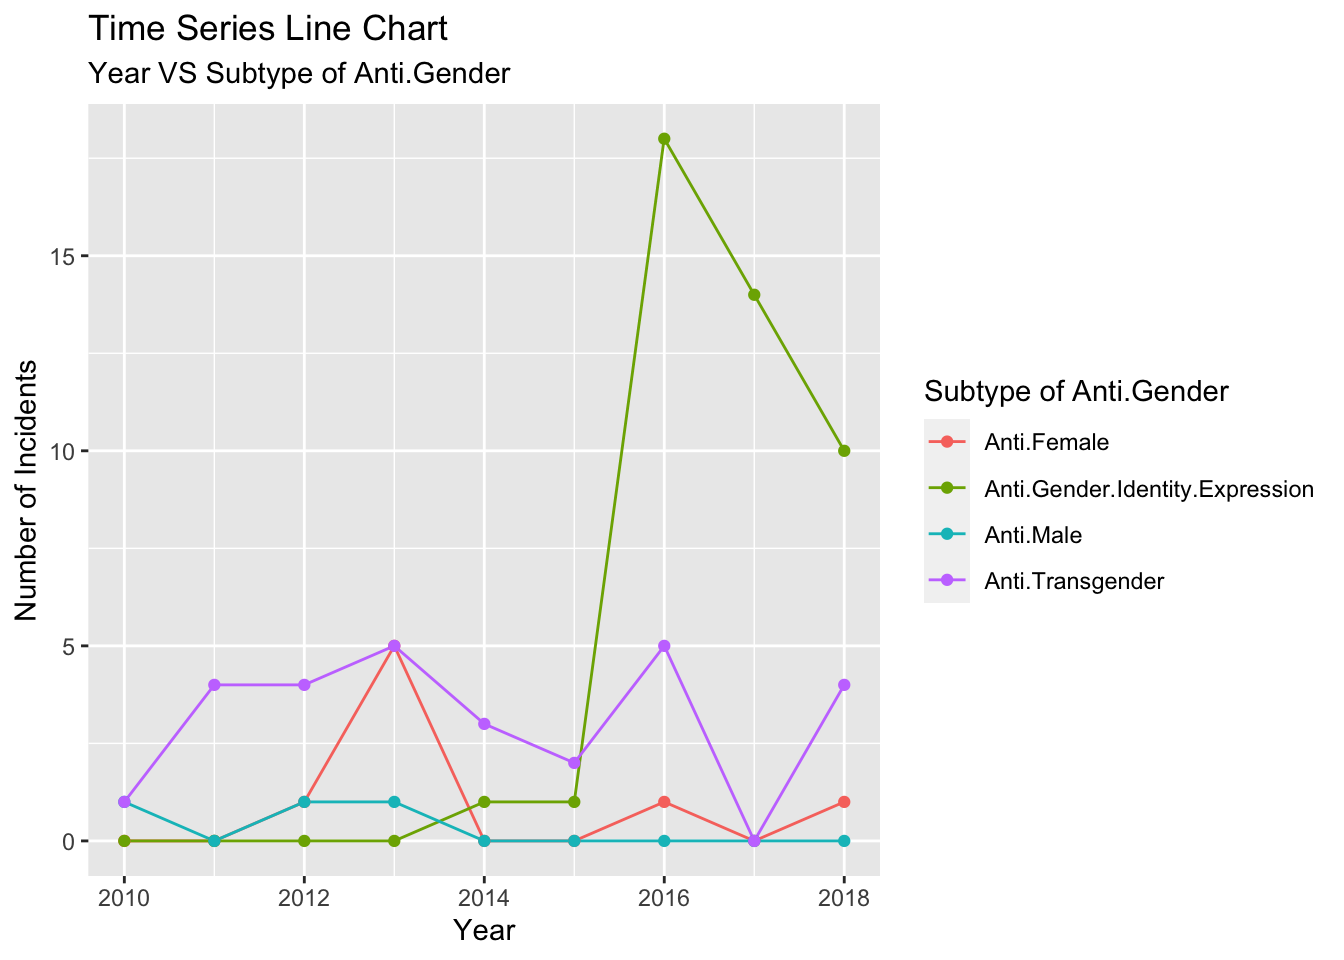
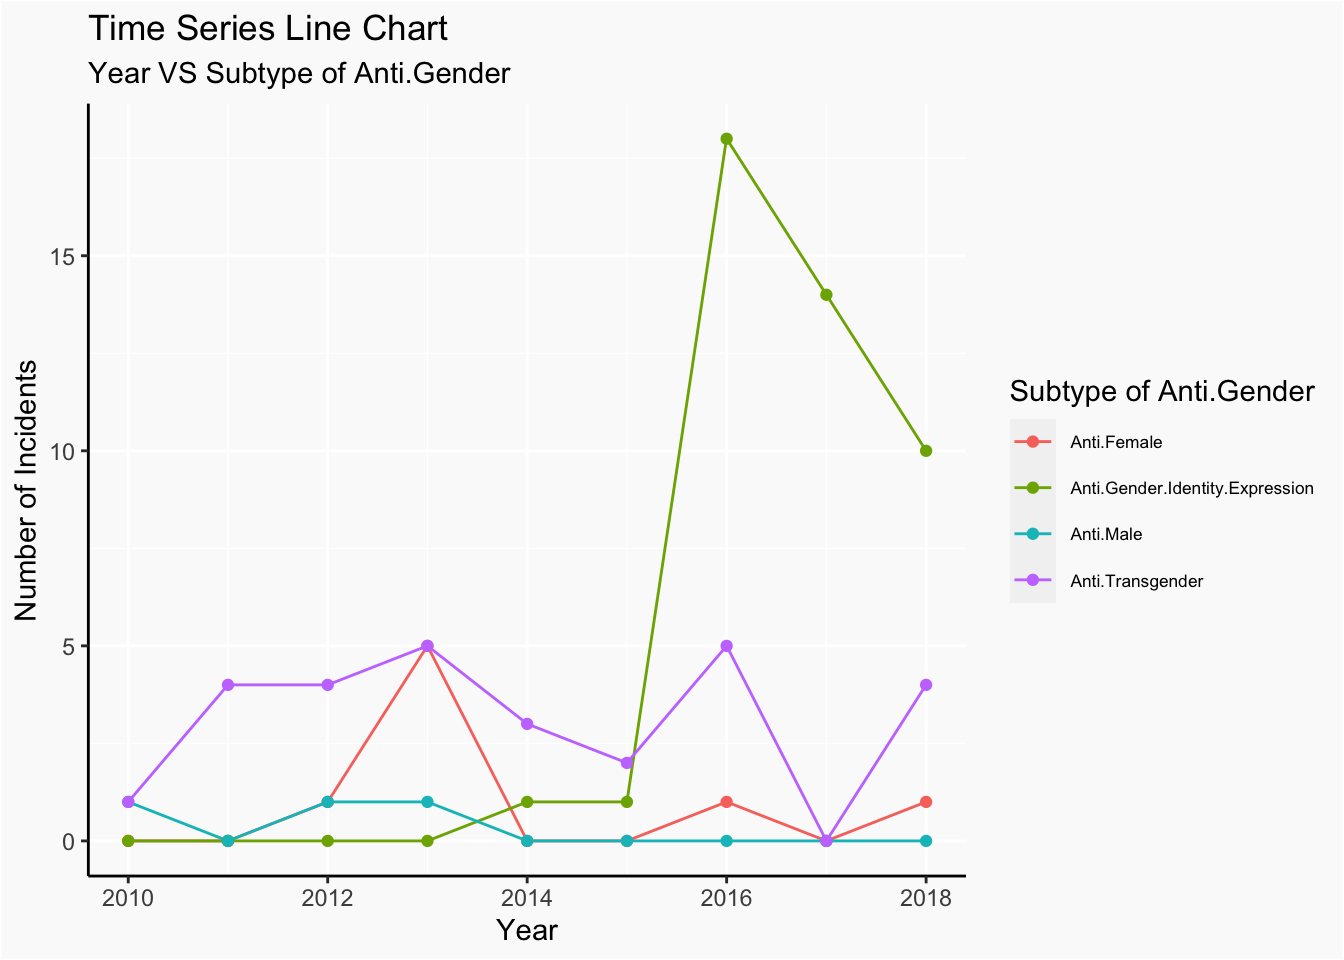
not showing the code and render again

diff --git a/docs/data-transformation.html b/docs/data-transformation.html
@@ -171,42 +171,6 @@ code span.wa { color: #60a0b0; font-weight: bold; font-style: italic; } /* Warni
 <p>We saved the original data as a csv file called ‘Hate_Crimes_by_County_and_Bias_Type_Beginning_2010.csv’.</p>
 <p>To get the tidy data, we first dropped the last three columns namely <em>Total.Incidents</em>, <em>Total.Victims</em>, <em>Total.Offenders</em>, as we can still calculate them using the remaining data.</p>
 <p>Then we regarded columns <em>County</em>, <em>Year</em> and <em>Crime.Type</em> as ID columns, which means we don’t make changes on them. We used the pivot_longer method to gather the rest of columns to create two columns <em>Subtype</em> and <em>Count</em>. Here Subtype means each small class of hate crimes such as <em>Anti.Male</em>, <em>Anti.Female</em> etc. <em>Count</em> is the corresponding number of cases for each small class. After that, we created a new column <em>Type</em>, containing six general classes that are <em>Anti.Gender</em>, <em>Anti.Age</em>, <em>Anti.Race</em>, <em>Anti.Religion</em>, <em>Anti.Sexual.Minority</em> and <em>Anti.Disability</em>. For each Subtype, it has a corresponding type. For example, the Subtype <em>Anti.Female</em> is related with the type <em>Anti.Gender</em> and the Subtype <em>Anti.White</em> is related with the type <em>Anti.Race’</em>. We use the for-loop to fill in the <em>Type</em> column for all rows.</p>
-<div class="sourceCode" id="cb1"><pre class="sourceCode r"><code class="sourceCode r"><a class="sourceLine" id="cb1-1" data-line-number="1">dataset &lt;-<span class="st"> </span><span class="kw">read.csv</span>(<span class="st">&quot;Hate_Crimes_by_County_and_Bias_Type__Beginning_2010.csv&quot;</span>)</a>
-<a class="sourceLine" id="cb1-2" data-line-number="2">dataset &lt;-<span class="st"> </span><span class="kw">subset</span>(dataset, <span class="dt">select=</span><span class="op">-</span><span class="kw">c</span>(<span class="dv">42</span>,<span class="dv">43</span>,<span class="dv">44</span>))</a>
-<a class="sourceLine" id="cb1-3" data-line-number="3"><span class="kw">names</span>(dataset)[<span class="dv">1</span>] &lt;-<span class="st"> &quot;County&quot;</span></a>
-<a class="sourceLine" id="cb1-4" data-line-number="4"></a>
-<a class="sourceLine" id="cb1-5" data-line-number="5">data&lt;-<span class="st"> </span>dataset <span class="op">%&gt;%</span><span class="st"> </span><span class="kw">pivot_longer</span>(<span class="dt">cols =</span> <span class="op">!</span>(<span class="kw">colnames</span>(dataset)[<span class="dv">1</span>] <span class="op">|</span><span class="st"> </span><span class="kw">colnames</span>(dataset)[<span class="dv">2</span>] <span class="op">|</span><span class="st"> </span><span class="kw">colnames</span>(dataset)[<span class="dv">3</span>]), <span class="dt">names_to =</span> <span class="st">&quot;Subtype&quot;</span>, <span class="dt">values_to =</span> <span class="st">&quot;Count&quot;</span>)</a>
-<a class="sourceLine" id="cb1-6" data-line-number="6"></a>
-<a class="sourceLine" id="cb1-7" data-line-number="7">anti_gender =<span class="st"> </span><span class="kw">colnames</span>(dataset)[<span class="dv">4</span><span class="op">:</span><span class="dv">7</span>]</a>
-<a class="sourceLine" id="cb1-8" data-line-number="8">anti_age =<span class="st"> </span><span class="kw">colnames</span>(dataset)[<span class="dv">8</span>]</a>
-<a class="sourceLine" id="cb1-9" data-line-number="9">anti_race =<span class="st"> </span><span class="kw">colnames</span>(dataset)[<span class="dv">9</span><span class="op">:</span><span class="dv">15</span>]</a>
-<a class="sourceLine" id="cb1-10" data-line-number="10">anti_religion =<span class="st"> </span><span class="kw">colnames</span>(dataset)[<span class="dv">16</span><span class="op">:</span><span class="dv">34</span>]</a>
-<a class="sourceLine" id="cb1-11" data-line-number="11">anti_sexual_minority =<span class="st"> </span><span class="kw">colnames</span>(dataset)[<span class="dv">35</span><span class="op">:</span><span class="dv">39</span>]</a>
-<a class="sourceLine" id="cb1-12" data-line-number="12">anti_disability =<span class="st"> </span><span class="kw">colnames</span>(dataset)[<span class="dv">40</span><span class="op">:</span><span class="dv">41</span>]</a>
-<a class="sourceLine" id="cb1-13" data-line-number="13"></a>
-<a class="sourceLine" id="cb1-14" data-line-number="14">vec =<span class="st"> </span><span class="kw">c</span>(<span class="kw">rep</span>(<span class="dv">0</span>,<span class="kw">nrow</span>(data)))</a>
-<a class="sourceLine" id="cb1-15" data-line-number="15">data &lt;-<span class="st"> </span><span class="kw">cbind</span>(data, <span class="dt">Type =</span> vec)</a>
-<a class="sourceLine" id="cb1-16" data-line-number="16"></a>
-<a class="sourceLine" id="cb1-17" data-line-number="17"><span class="cf">for</span>( i <span class="cf">in</span> <span class="dv">1</span><span class="op">:</span><span class="kw">nrow</span>(data)){</a>
-<a class="sourceLine" id="cb1-18" data-line-number="18">  <span class="cf">if</span>(data<span class="op">$</span><span class="st">`</span><span class="dt">Subtype</span><span class="st">`</span>[i] <span class="op">%in%</span><span class="st"> </span>anti_gender){</a>
-<a class="sourceLine" id="cb1-19" data-line-number="19">    data<span class="op">$</span>Type[i] =<span class="st"> &quot;Anti.Gender&quot;</span></a>
-<a class="sourceLine" id="cb1-20" data-line-number="20">  }</a>
-<a class="sourceLine" id="cb1-21" data-line-number="21">  <span class="cf">if</span>(data<span class="op">$</span><span class="st">`</span><span class="dt">Subtype</span><span class="st">`</span>[i] <span class="op">%in%</span><span class="st"> </span>anti_age){</a>
-<a class="sourceLine" id="cb1-22" data-line-number="22">    data<span class="op">$</span>Type[i] =<span class="st"> &quot;Anti.Age&quot;</span></a>
-<a class="sourceLine" id="cb1-23" data-line-number="23">  }</a>
-<a class="sourceLine" id="cb1-24" data-line-number="24">  <span class="cf">if</span>(data<span class="op">$</span><span class="st">`</span><span class="dt">Subtype</span><span class="st">`</span>[i] <span class="op">%in%</span><span class="st"> </span>anti_race){</a>
-<a class="sourceLine" id="cb1-25" data-line-number="25">    data<span class="op">$</span>Type[i] =<span class="st"> &quot;Anti.Race&quot;</span></a>
-<a class="sourceLine" id="cb1-26" data-line-number="26">  }</a>
-<a class="sourceLine" id="cb1-27" data-line-number="27">  <span class="cf">if</span>(data<span class="op">$</span><span class="st">`</span><span class="dt">Subtype</span><span class="st">`</span>[i] <span class="op">%in%</span><span class="st"> </span>anti_religion){</a>
-<a class="sourceLine" id="cb1-28" data-line-number="28">    data<span class="op">$</span>Type[i] =<span class="st"> &quot;Anti.Religion&quot;</span></a>
-<a class="sourceLine" id="cb1-29" data-line-number="29">  }</a>
-<a class="sourceLine" id="cb1-30" data-line-number="30">  <span class="cf">if</span>(data<span class="op">$</span><span class="st">`</span><span class="dt">Subtype</span><span class="st">`</span>[i] <span class="op">%in%</span><span class="st"> </span>anti_sexual_minority){</a>
-<a class="sourceLine" id="cb1-31" data-line-number="31">    data<span class="op">$</span>Type[i] =<span class="st"> &quot;Anti.Sexual.Minority&quot;</span></a>
-<a class="sourceLine" id="cb1-32" data-line-number="32">  }</a>
-<a class="sourceLine" id="cb1-33" data-line-number="33">  <span class="cf">if</span>(data<span class="op">$</span><span class="st">`</span><span class="dt">Subtype</span><span class="st">`</span>[i] <span class="op">%in%</span><span class="st"> </span>anti_disability){</a>
-<a class="sourceLine" id="cb1-34" data-line-number="34">    data<span class="op">$</span>Type[i] =<span class="st"> &quot;Anti.Disability&quot;</span></a>
-<a class="sourceLine" id="cb1-35" data-line-number="35">  }</a>
-<a class="sourceLine" id="cb1-36" data-line-number="36">}</a></code></pre></div>
 <p>Here are first few rows of our modified data. And we save our modified data as a csv file called ‘Hate_Crimes_data_Tidy.csv’.</p>
 <pre><code>##   County Year             Crime.Type                         Subtype
 ## 1 Albany 2018 Crimes Against Persons                       Anti.Male

diff --git a/docs/results.html b/docs/results.html
@@ -168,25 +168,6 @@ code span.wa { color: #60a0b0; font-weight: bold; font-style: italic; } /* Warni
             <section class="normal" id="section-">
 <div id="results" class="section level1">
 <h1><span class="header-section-number">Chapter 5</span> Results</h1>
-<div class="sourceCode" id="cb7"><pre class="sourceCode r"><code class="sourceCode r"><a class="sourceLine" id="cb7-1" data-line-number="1"><span class="kw">library</span>(tidyverse)</a>
-<a class="sourceLine" id="cb7-2" data-line-number="2"><span class="kw">library</span>(cowplot)</a>
-<a class="sourceLine" id="cb7-3" data-line-number="3"><span class="kw">library</span>(ggplot2)</a>
-<a class="sourceLine" id="cb7-4" data-line-number="4"><span class="kw">library</span>(ggpubr)</a>
-<a class="sourceLine" id="cb7-5" data-line-number="5"><span class="kw">library</span>(forcats)</a>
-<a class="sourceLine" id="cb7-6" data-line-number="6"><span class="kw">library</span>(maps)</a>
-<a class="sourceLine" id="cb7-7" data-line-number="7"><span class="kw">library</span>(gridExtra)</a>
-<a class="sourceLine" id="cb7-8" data-line-number="8"></a>
-<a class="sourceLine" id="cb7-9" data-line-number="9">dataset &lt;-<span class="st"> </span><span class="kw">read.csv</span>(<span class="st">&quot;Hate_Crimes_data_Tidy.csv&quot;</span>)</a>
-<a class="sourceLine" id="cb7-10" data-line-number="10"></a>
-<a class="sourceLine" id="cb7-11" data-line-number="11">plot_theme&lt;-<span class="kw">theme</span>(<span class="dt">panel.grid.major.y =</span> <span class="kw">element_line</span>(),</a>
-<a class="sourceLine" id="cb7-12" data-line-number="12">        <span class="dt">panel.grid.major.x =</span> <span class="kw">element_line</span>(),</a>
-<a class="sourceLine" id="cb7-13" data-line-number="13">        <span class="dt">panel.background =</span> <span class="kw">element_blank</span>(),,</a>
-<a class="sourceLine" id="cb7-14" data-line-number="14">        <span class="dt">panel.grid.minor =</span> <span class="kw">element_line</span>(),</a>
-<a class="sourceLine" id="cb7-15" data-line-number="15">        <span class="dt">plot.background =</span> <span class="kw">element_rect</span>(<span class="dt">fill=</span><span class="st">&#39;#FAFAFA&#39;</span>),</a>
-<a class="sourceLine" id="cb7-16" data-line-number="16">        <span class="dt">axis.line =</span> <span class="kw">element_line</span>(<span class="dt">color=</span><span class="st">&#39;black&#39;</span>),</a>
-<a class="sourceLine" id="cb7-17" data-line-number="17">        <span class="dt">legend.background =</span> <span class="kw">element_rect</span>(<span class="dt">fill =</span> <span class="st">&#39;#FAFAFA&#39;</span>),</a>
-<a class="sourceLine" id="cb7-18" data-line-number="18">        <span class="dt">legend.text=</span><span class="kw">element_text</span>(<span class="dt">size=</span><span class="fl">6.5</span>))</a></code></pre></div>
-<p>These are the packages, data and the main theme that we are going to apply in the following exploratory data analysis.</p>
 <div id="general-picture-of-hate-crimes" class="section level2">
 <h2><span class="header-section-number">5.1</span> General Picture of Hate Crimes</h2>
 <hr />

diff --git a/docs/missing-values.html b/docs/missing-values.html
@@ -170,12 +170,12 @@ code span.wa { color: #60a0b0; font-weight: bold; font-style: italic; } /* Warni
 <h1><span class="header-section-number">Chapter 4</span> Missing values</h1>
 <p>All data are based on data provided by Law Enforcement in New York State. It’s already a summary integrating hate crimes happened in New York States from 2010 to 2018. In other words, the data here represent the numbers of hate crimes. If there is no hate crime of certain category, then the number will be 0.</p>
 <p>There is no null value in ’Hate_Crimes_by_County_and_Bias_Type__Beginning_2010.csv’:</p>
-<div class="sourceCode" id="cb3"><pre class="sourceCode r"><code class="sourceCode r"><a class="sourceLine" id="cb3-1" data-line-number="1">dataset &lt;-<span class="st"> </span><span class="kw">read.csv</span>(<span class="st">&quot;Hate_Crimes_by_County_and_Bias_Type__Beginning_2010.csv&quot;</span>)</a>
-<a class="sourceLine" id="cb3-2" data-line-number="2"><span class="kw">any</span>(<span class="kw">is.na</span>(dataset))</a></code></pre></div>
+<div class="sourceCode" id="cb2"><pre class="sourceCode r"><code class="sourceCode r"><a class="sourceLine" id="cb2-1" data-line-number="1">dataset &lt;-<span class="st"> </span><span class="kw">read.csv</span>(<span class="st">&quot;Hate_Crimes_by_County_and_Bias_Type__Beginning_2010.csv&quot;</span>)</a>
+<a class="sourceLine" id="cb2-2" data-line-number="2"><span class="kw">any</span>(<span class="kw">is.na</span>(dataset))</a></code></pre></div>
 <pre><code>## [1] FALSE</code></pre>
 <p>There is no null value in ‘Hate_Crimes_data_Tidy.csv’:</p>
-<div class="sourceCode" id="cb5"><pre class="sourceCode r"><code class="sourceCode r"><a class="sourceLine" id="cb5-1" data-line-number="1">dataset &lt;-<span class="st"> </span><span class="kw">read.csv</span>(<span class="st">&quot;Hate_Crimes_data_Tidy.csv&quot;</span>)</a>
-<a class="sourceLine" id="cb5-2" data-line-number="2"><span class="kw">any</span>(<span class="kw">is.na</span>(dataset))</a></code></pre></div>
+<div class="sourceCode" id="cb4"><pre class="sourceCode r"><code class="sourceCode r"><a class="sourceLine" id="cb4-1" data-line-number="1">dataset &lt;-<span class="st"> </span><span class="kw">read.csv</span>(<span class="st">&quot;Hate_Crimes_data_Tidy.csv&quot;</span>)</a>
+<a class="sourceLine" id="cb4-2" data-line-number="2"><span class="kw">any</span>(<span class="kw">is.na</span>(dataset))</a></code></pre></div>
 <pre><code>## [1] FALSE</code></pre>
 <p>Also, it makes sense that the Law Enforcement Department already performed an initial data cleaning by filtering out the missing values. Though there is no <code>NA</code> in datasets, we do found that two counties are not included in the original dataset, which are Wyoming county and Yates county. Given the fact that there are over 60 counties in New York state, we believe these two missing counties can be ignored. There may not be any missing pattern regarding these two counties, but there is still an interesting point that these two counties are both located in the west side of New York state and very close to each other.</p>
 
